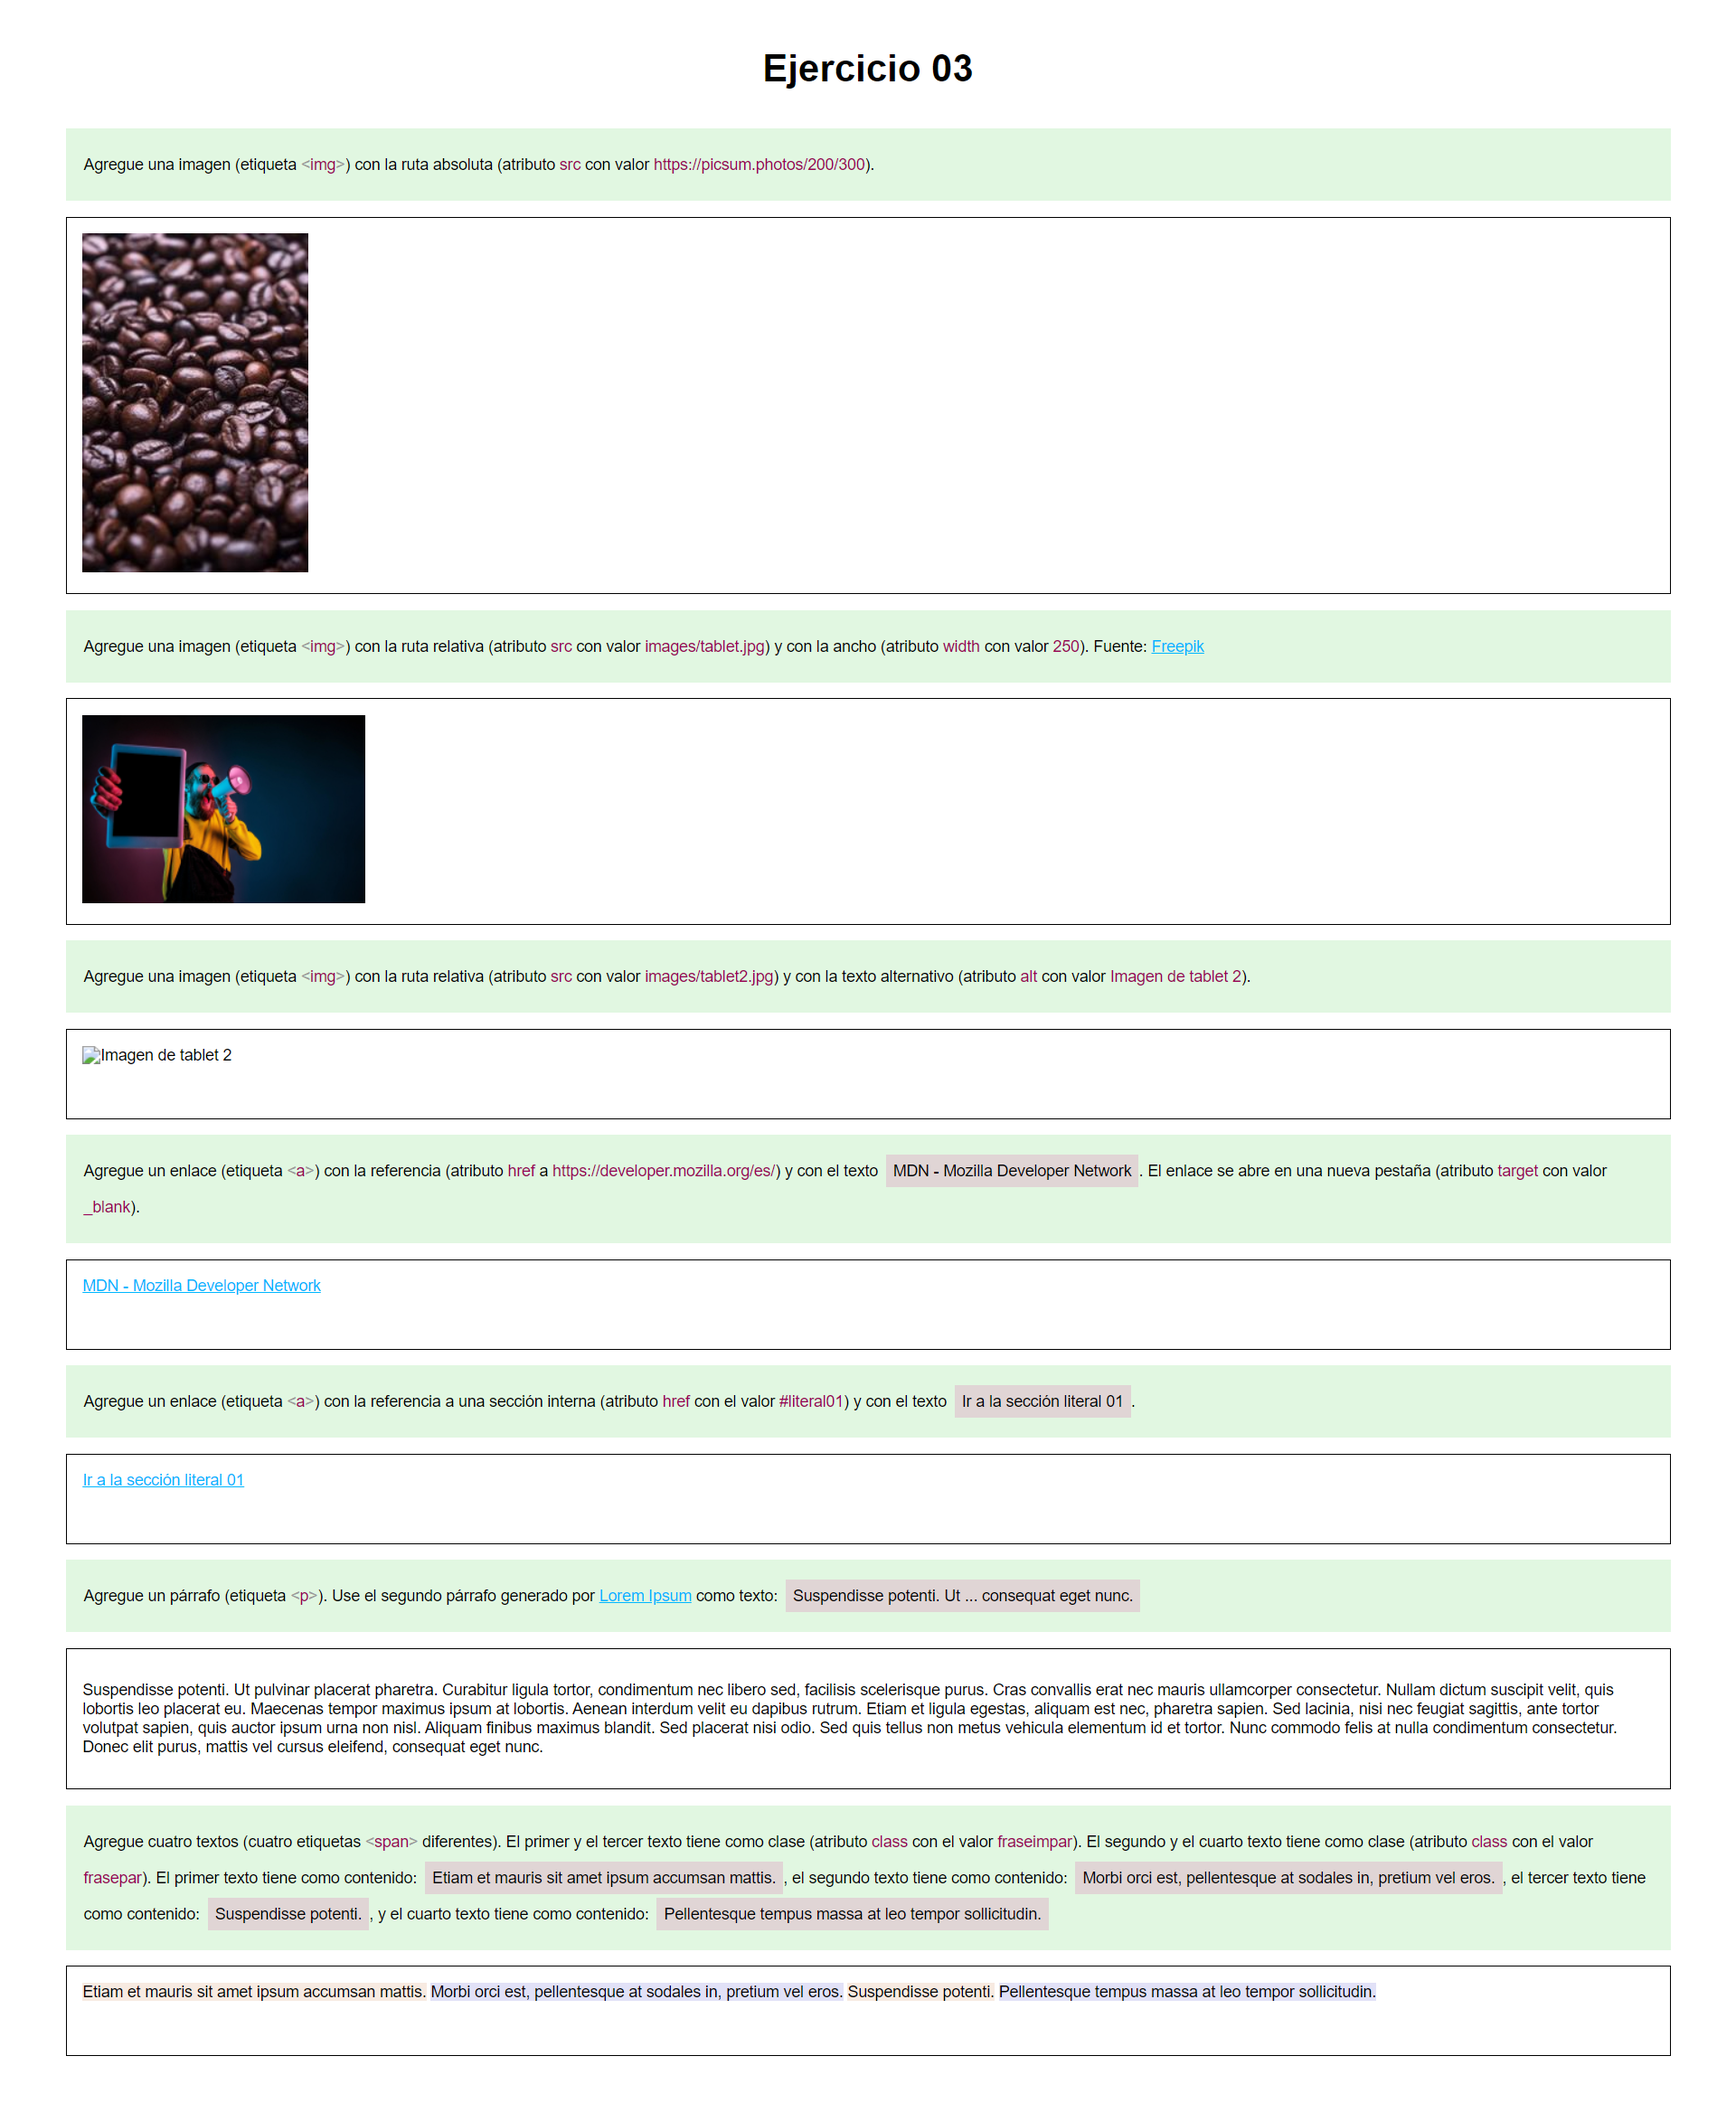
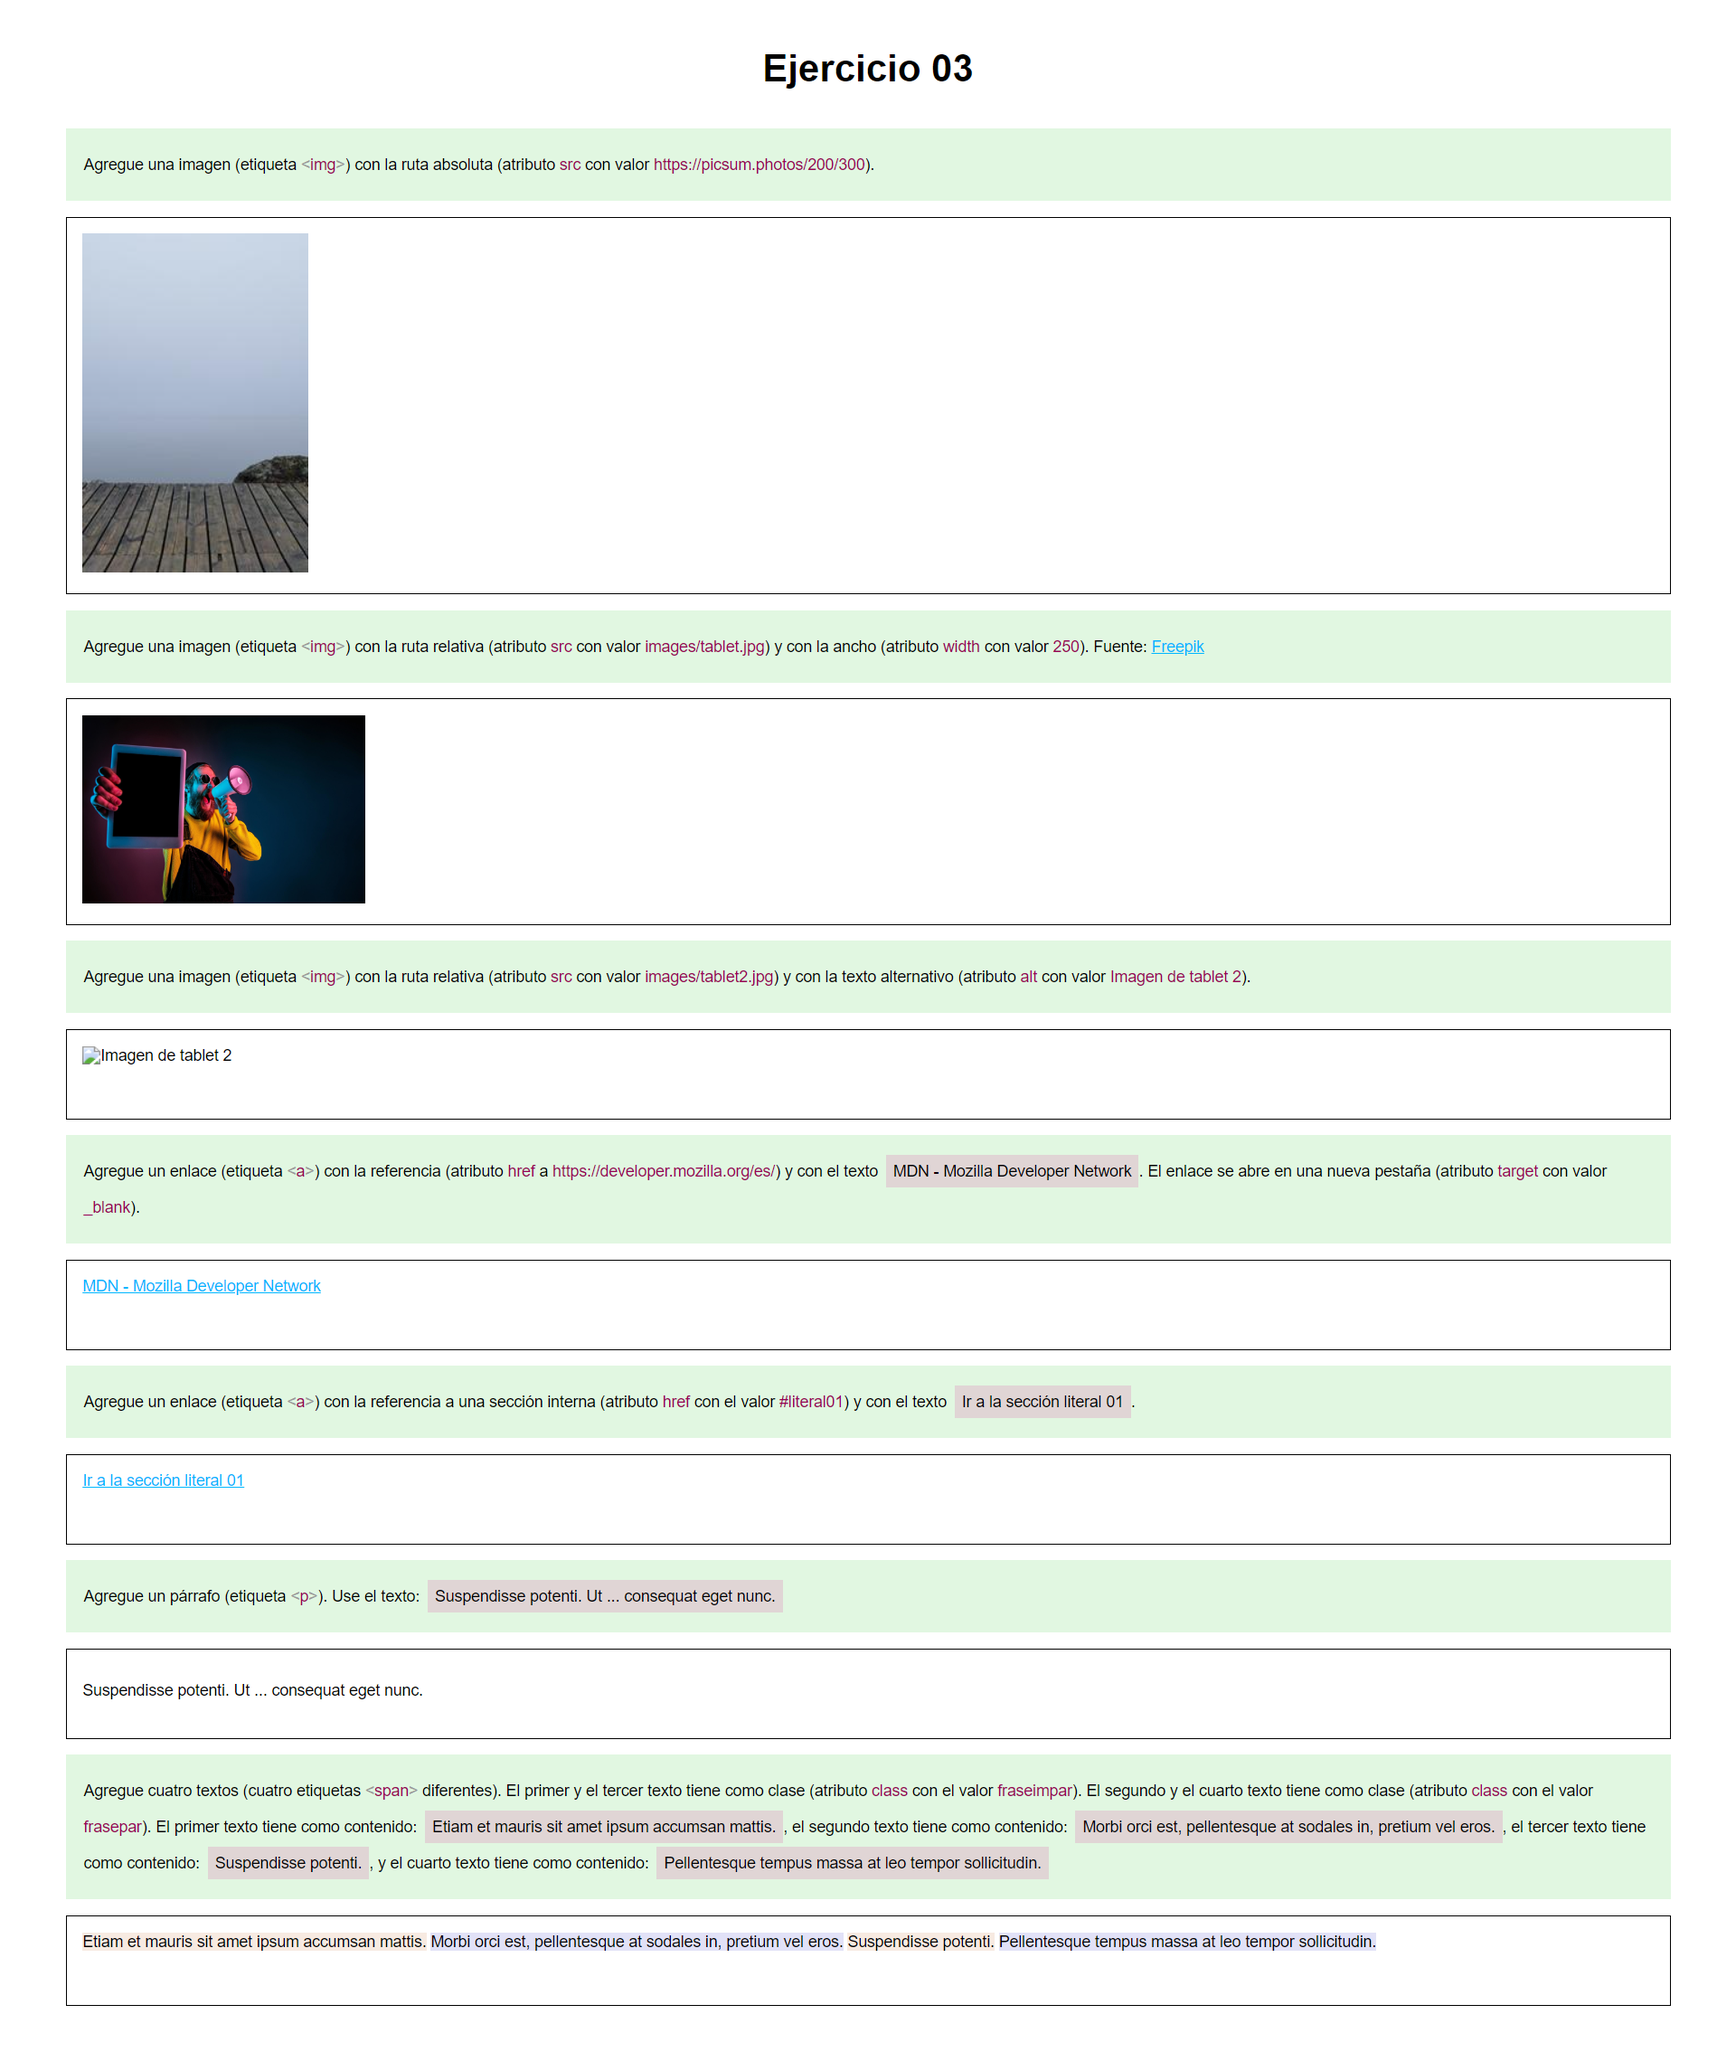
C01/EJ03

Changed region(s): [[0.0312, 0.031, 0.9688, 0.9611]]

diff --git a/Capítulo 01/ejercicio03/test/contenedor.test.js b/Capítulo 01/ejercicio03/test/contenedor.test.js
@@ -13,32 +13,36 @@ describe('Test unitarios para la ruta `/`', function() {
         })
     });
 
-    it('Modifique el archivo views/index.ejs', function() {
+    let paragraph = `<p>Suspendisse potenti. Ut ... consequat eget nunc.</p>`
+    let phrase = `
+      <span class="fraseimpar">Etiam et mauris sit amet ipsum accumsan mattis.</span>
+      <span class="frasepar">Morbi orci est, pellentesque at sodales in, pretium vel eros.</span>
+      <span class="fraseimpar">Suspendisse potenti.</span>
+      <span class="frasepar">Pellentesque tempus massa at leo tempor sollicitudin.</span>`
+
+    it('En views/index.ejs use la etiqueta: '+paragraph, function() {
       return request(app)
         .get('/')
         .then((response) => {
 
-            let responseclean = response.text.replace(/(\r\n|\n|\r)/gm, '')
+          let responseclean = response.text.replace(/\s/g, '').replace(/(?:\r\n|\r|\n)/g, '')
+          let paragraphclean = paragraph.replace(/\s/g, '').replace(/(?:\r\n|\r|\n)/g, '')
+          
+          chai.expect(responseclean).to.contain(paragraphclean);
+            
+        })
+    });
 
-            let paragraph = `
-              <p>
-                Suspendisse potenti. Ut pulvinar placerat pharetra. Curabitur ligula tortor, condimentum nec libero sed, facilisis scelerisque purus. Cras convallis erat nec mauris ullamcorper consectetur. Nullam dictum suscipit velit, quis lobortis leo placerat eu. Maecenas tempor maximus ipsum at lobortis. Aenean interdum velit eu dapibus rutrum. Etiam et ligula egestas, aliquam est nec, pharetra sapien. Sed lacinia, nisi nec feugiat sagittis, ante tortor volutpat sapien, quis auctor ipsum urna non nisl. Aliquam finibus maximus blandit. Sed placerat nisi odio. Sed quis tellus non metus vehicula elementum id et tortor. Nunc commodo felis at nulla condimentum consectetur. Donec elit purus, mattis vel cursus eleifend, consequat eget nunc.
-              </p>
-            `
-            let paragraphclean = paragraph.replace(/(\r\n|\n|\r)/gm, '').replace(/ /g,'')
+    it('En views/index.ejs use la etiqueta: \n'+phrase, function() {
+      return request(app)
+        .get('/')
+        .then((response) => {
 
-            chai.expect(responseclean).to.contain(paragraphclean);
-
-
-            let phrase = `
-              <span class="fraseimpar">Etiam et mauris sit amet ipsum accumsan mattis.</span>
-              <span class="frasepar">Morbi orci est, pellentesque at sodales in, pretium vel eros.</span>
-              <span class="fraseimpar">Suspendisse potenti.</span>
-              <span class="frasepar">Pellentesque tempus massa at leo tempor sollicitudin.</span>
-            `
-            let phraseclean = phrase.replace(/(\r\n|\n|\r)/gm, '').replace(/ /g,'')
-
-            chai.expect(responseclean).to.contain(phraseclean);
+          let responseclean = response.text.replace(/\s/g, '').replace(/(?:\r\n|\r|\n)/g, '')
+          let phraseclean = phrase.replace(/\s/g, '').replace(/(?:\r\n|\r|\n)/g, '')
+          
+          chai.expect(responseclean).to.contain(phraseclean);
+            
         })
     });
 

diff --git a/Capítulo 01/ejercicio03/test/imagen.test.js b/Capítulo 01/ejercicio03/test/imagen.test.js
@@ -13,14 +13,48 @@ describe('Test unitarios para la ruta `/`', function() {
         })
     });
 
-    it('Modifique el archivo views/index.ejs', function() {
+    let img1 = `<img src="https://picsum.photos/200/300">`
+    let img2 = `<img src="images/tablet.jpg" width="250">`
+    let img3 = `<img src="images/tablet2.jpg" alt="Imagen de tablet 2">`
+
+    it('En views/index.ejs use la etiqueta: '+img1, function() {
       return request(app)
         .get('/')
         .then((response) => {
-            chai.expect(response.text).to.contain('<img src="https://picsum.photos/200/300">');
-            chai.expect(response.text).to.contain('<img src="images/tablet.jpg" width="250">');
-            chai.expect(response.text).to.contain('<img src="images/tablet2.jpg" alt="Imagen de tablet 2">');
+
+          let responseclean = response.text.replace(/\s/g, '').replace(/(?:\r\n|\r|\n)/g, '')
+          let imgclean = img1.replace(/\s/g, '').replace(/(?:\r\n|\r|\n)/g, '')
+          
+          chai.expect(responseclean).to.contain(imgclean);
+            
         })
     });
 
+    it('En views/index.ejs use la etiqueta: '+img2, function() {
+      return request(app)
+        .get('/')
+        .then((response) => {
+
+          let responseclean = response.text.replace(/\s/g, '').replace(/(?:\r\n|\r|\n)/g, '')
+          let imgclean = img2.replace(/\s/g, '').replace(/(?:\r\n|\r|\n)/g, '')
+          
+          chai.expect(responseclean).to.contain(imgclean);
+            
+        })
+    });
+
+    it('En views/index.ejs use la etiqueta: '+img3, function() {
+      return request(app)
+        .get('/')
+        .then((response) => {
+
+          let responseclean = response.text.replace(/\s/g, '').replace(/(?:\r\n|\r|\n)/g, '')
+          let imgclean = img3.replace(/\s/g, '').replace(/(?:\r\n|\r|\n)/g, '')
+          
+          chai.expect(responseclean).to.contain(imgclean);
+            
+        })
+    });
+
+    
 });

diff --git a/Capítulo 01/ejercicio03/test/enlace.test.js b/Capítulo 01/ejercicio03/test/enlace.test.js
@@ -13,12 +13,32 @@ describe('Test unitarios para la ruta `/`', function() {
         })
     });
 
-    it('Modifique el archivo views/index.ejs', function() {
+    let a1 = `<a href="https://developer.mozilla.org/es/" target="_blank">MDN - Mozilla Developer Network</a>`
+    let a2 = `<a href="#literal01">Ir a la sección literal 01</a>`
+
+    it('En views/index.ejs use la etiqueta: '+a1, function() {
       return request(app)
         .get('/')
         .then((response) => {
-            chai.expect(response.text).to.contain('<a href="https://developer.mozilla.org/es/" target="_blank">MDN - Mozilla Developer Network</a>');
-            chai.expect(response.text).to.contain('<a href="#literal01">Ir a la sección literal 01</a>');
+
+          let responseclean = response.text.replace(/\s/g, '').replace(/(?:\r\n|\r|\n)/g, '')
+          let a1clean = a1.replace(/\s/g, '').replace(/(?:\r\n|\r|\n)/g, '')
+          
+          chai.expect(responseclean).to.contain(a1clean);
+            
+        })
+    });
+
+    it('En views/index.ejs use la etiqueta: '+a2, function() {
+      return request(app)
+        .get('/')
+        .then((response) => {
+
+          let responseclean = response.text.replace(/\s/g, '').replace(/(?:\r\n|\r|\n)/g, '')
+          let a2clean = a2.replace(/\s/g, '').replace(/(?:\r\n|\r|\n)/g, '')
+          
+          chai.expect(responseclean).to.contain(a2clean);
+            
         })
     });
 
